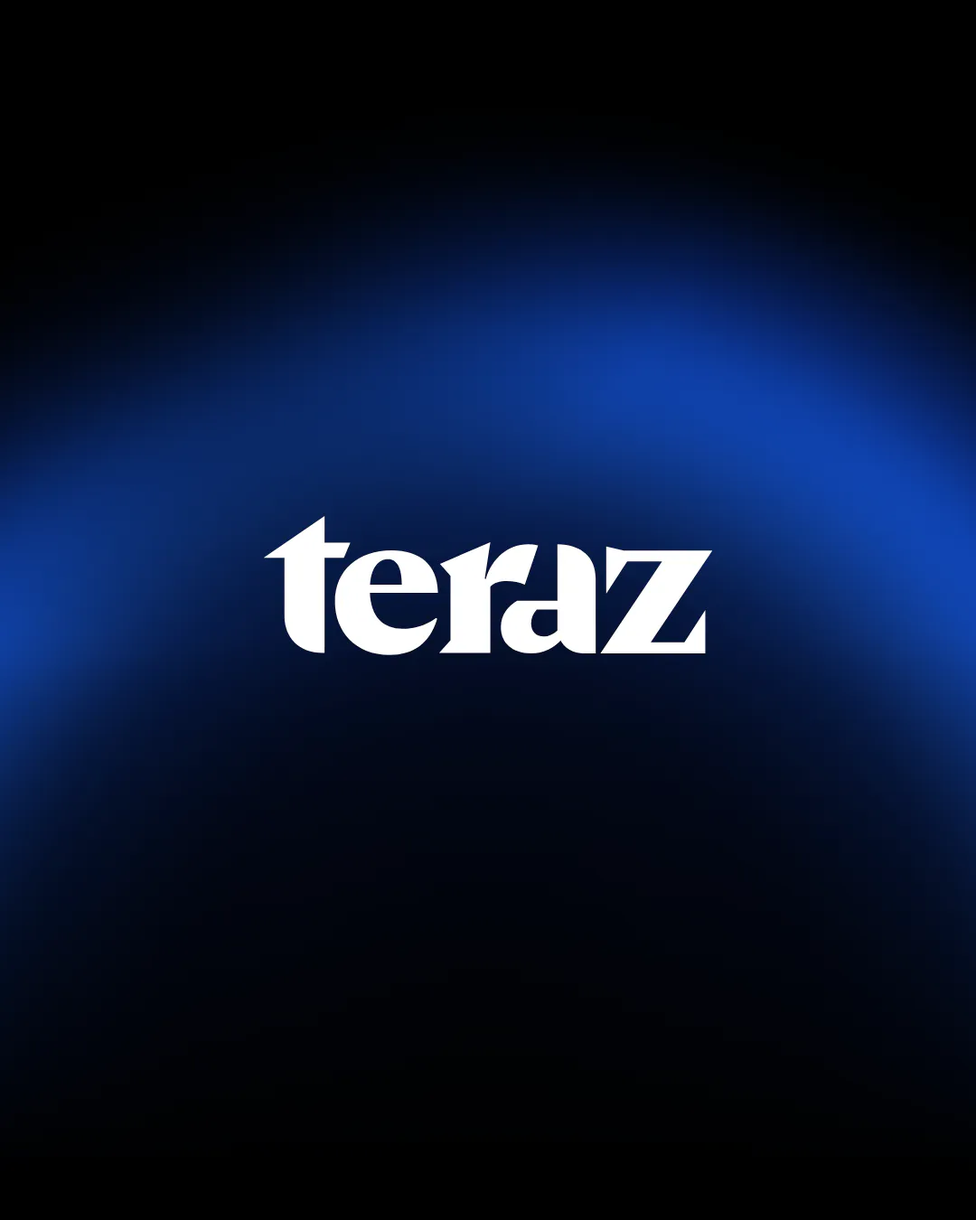
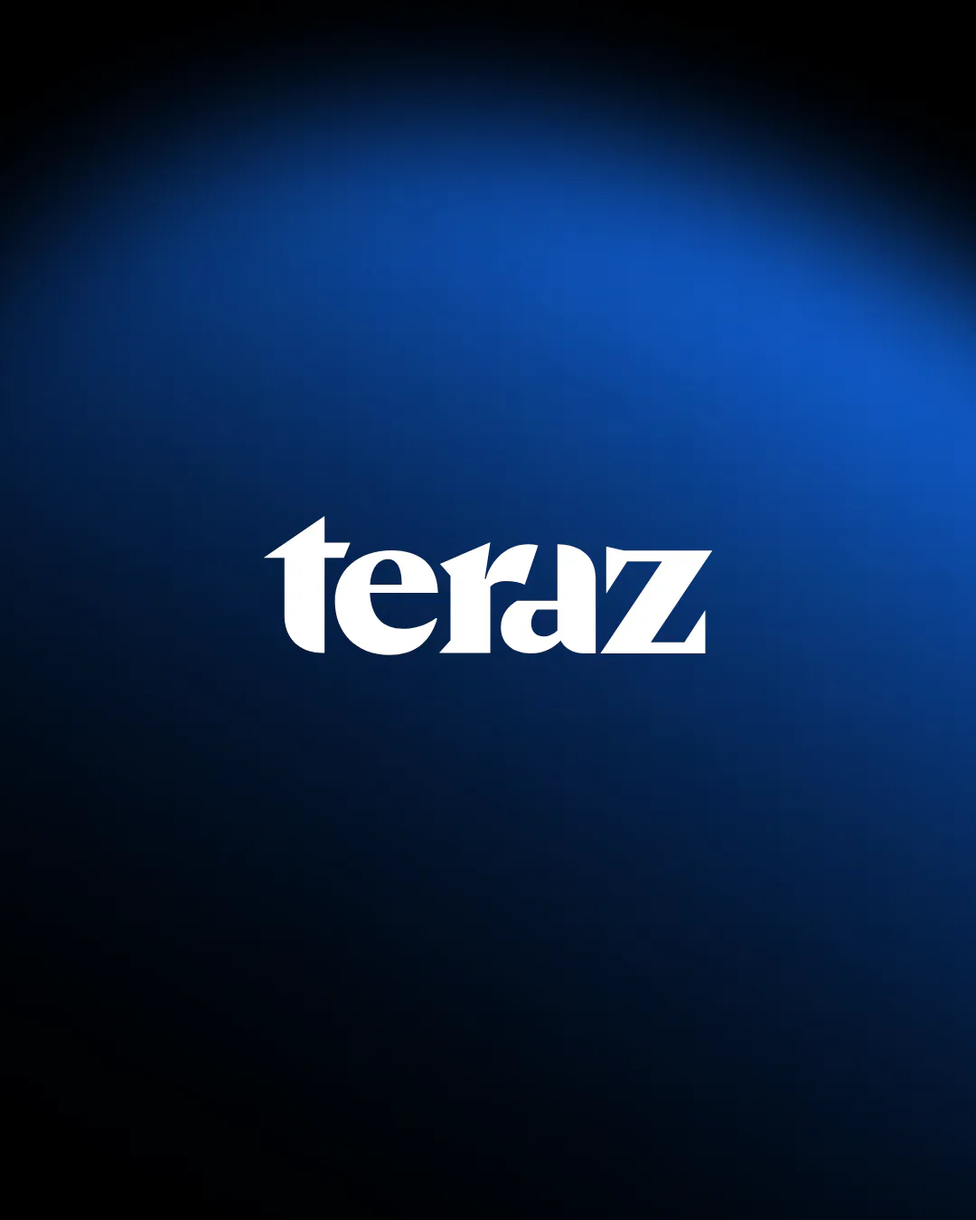
teraz: plansza z dużymi plamami różu i błękitu z projektu (płyną organicznie), bez „?” i „!”, mikroanimacja w każdej scenie (dziedziny, rezerwacje terminów, dwie społeczności i trzecia w planach, rozmowa), nowa okładka z niebieską plamą (sfera - animowana, PDF - statyczna)

diff --git a/styles.css b/styles.css
@@ -910,7 +910,7 @@ html:not(.js) .reel * { animation-iteration-count: 3 !important; animation-fill-
 .reel--4x5 {
   --pad: 7.5cqw; --lw: 52cqw; --ly: 40cqh;    /* plakat: środek znaku na 40% wysokości (optycznie wyżej) */
   --claim-fs: max(13px, 4.8cqw); --claim-gap: calc(var(--lw) * .16); --leg-fs: max(12px, 2.9cqw);
-  --f-size: 100cqw; --fm-size: 110cqw; --fl-x: 28cqw; --fl-y: 34cqh; --fe-x: 72cqw; --fe-y: 74cqh;
+  --fm-size: 110cqw;
   --pill-fs: max(12px, 3.2cqw); --head-fs: max(15px, 7.4cqw); --sub-fs: max(12px, 3.6cqw); --sgap: 2.6cqw;
   --call-top: 10cqh; --call-bot: 10cqh; --cgap: 3.6cqw;
   --ts: 40cqw; --tgap: 4cqw; --ring: max(2px, .55cqw);
@@ -927,33 +927,30 @@ html:not(.js) .reel * { animation-iteration-count: 3 !important; animation-fill-
   pointer-events: none;
 }
 
-/* Pola kolorów ról: statyczne gradienty bez filtra. Kolor = krycie na zegarze 15 s, ruch = wolny dryf 17–31 s */
+/* Pola kolorów ról: duże rozmyte plamy z Figmy (assets/teraz/field-*.webp - cała plama z rozmyciem, ustawiona jak
+   w projekcie 9:16 przyciętym do 4:5; 1 jedn. Figmy = 100/1080 cqw). Kolor = krycie na zegarze 15 s, ruch = organiczny
+   dryf, obrót i „oddech” w nierównych okresach (19-31 s) - plamy cały czas zmieniają kształt i miejsce. */
 .reel__field {
   position: absolute;
-  width: var(--f-size);
-  height: var(--f-size);
-  left: calc(var(--x) - var(--f-size) / 2);
-  top: calc(var(--y) - var(--f-size) / 2);
   pointer-events: none;
+  background: center / 100% 100% no-repeat;
 }
 .reel__field--l {
-  --x: var(--fl-x); --y: var(--fl-y);
-  opacity: .35;
-  background:
-    radial-gradient(46% 38% at 47% 53%, rgb(252 138 211 / .38), rgb(252 138 211 / .14) 55%, transparent 100%),
-    radial-gradient(26% 30% at 66% 34%, rgb(252 138 211 / .16), transparent 100%);
-  animation: reel-op-l var(--t-reel, 15s) ease-in-out infinite, reel-drift-a 23s ease-in-out infinite alternate, reel-swell 17s ease-in-out infinite alternate;
+  left: -75.7cqw; top: -113.4cqw; width: 225.5cqw; height: 258.1cqw;
+  background-image: url("assets/teraz/field-pink.webp");
+  transform-origin: 62% 58%;
+  opacity: .5;
+  animation: reel-op-l var(--t-reel, 15s) ease-in-out infinite, reel-blob-a 23s ease-in-out infinite alternate, reel-blob-c 31s ease-in-out infinite alternate;
 }
 .reel__field--e {
-  --x: var(--fe-x); --y: var(--fe-y);
-  opacity: .35;
-  background:
-    radial-gradient(46% 38% at 53% 47%, rgb(20 110 244 / .55), rgb(20 110 244 / .2) 55%, transparent 100%),
-    radial-gradient(26% 30% at 34% 66%, rgb(29 62 147 / .5), transparent 100%);
-  animation: reel-op-e var(--t-reel, 15s) ease-in-out infinite, reel-drift-b 29s ease-in-out infinite alternate, reel-swell 19s ease-in-out infinite alternate;
+  left: -96cqw; top: -67.4cqw; width: 237.7cqw; height: 212cqw;
+  background-image: url("assets/teraz/field-blue.webp");
+  transform-origin: 45% 60%;
+  opacity: .5;
+  animation: reel-op-e var(--t-reel, 15s) ease-in-out infinite, reel-blob-b 29s ease-in-out infinite alternate, reel-blob-c 19s ease-in-out infinite alternate-reverse;
 }
 .reel__field--m {
-  --f-size: var(--fm-size); --x: 50cqw; --y: 50cqh;
+  left: calc(50cqw - var(--fm-size) / 2); top: calc(50cqh - var(--fm-size) / 2); width: var(--fm-size); height: var(--fm-size);
   opacity: 0;
   background:
     radial-gradient(34% 30% at 38% 50%, rgb(252 138 211 / .30), transparent 100%),
@@ -961,11 +958,14 @@ html:not(.js) .reel * { animation-iteration-count: 3 !important; animation-fill-
   animation: reel-op-m var(--t-reel, 15s) ease-in-out infinite, reel-drift-a 31s ease-in-out infinite alternate;
 }
 @keyframes reel-drift-a { from { translate: -4cqw 3cqh; rotate: -10deg; } to { translate: 5cqw -4cqh; rotate: 14deg; } }
-@keyframes reel-drift-b { from { translate: 4cqw -3cqh; rotate: 12deg; } to { translate: -5cqw 4cqh; rotate: -12deg; } }
 @keyframes reel-swell   { from { scale: .92; } to { scale: 1.08; } }
-/* słuchacz (róż) → ekspert (błękit) → społeczność (oba) → rozmowa (środek) → plakat */
-@keyframes reel-op-l { 0%, 16% { opacity: .35; } 21.333%, 38.667% { opacity: 1; } 44%, 60% { opacity: .4; } 65.333%, 77.333% { opacity: .75; } 82.667%, 94.667% { opacity: .2; } 100% { opacity: .35; } }
-@keyframes reel-op-e { 0%, 16% { opacity: .35; } 21.333%, 38.667% { opacity: .25; } 44%, 60% { opacity: 1; } 65.333%, 77.333% { opacity: .75; } 82.667%, 94.667% { opacity: .2; } 100% { opacity: .35; } }
+/* plamy: dryf + obrót + niejednakowa skala (kształt „oddycha”) */
+@keyframes reel-blob-a { 0% { translate: 6cqw -4cqw; rotate: -7deg; } 50% { translate: -5cqw 6cqw; rotate: 5deg; } 100% { translate: 3cqw 9cqw; rotate: 11deg; } }
+@keyframes reel-blob-b { 0% { translate: -6cqw 5cqw; rotate: 8deg; } 50% { translate: 7cqw -3cqw; rotate: -4deg; } 100% { translate: -2cqw -8cqw; rotate: -10deg; } }
+@keyframes reel-blob-c { 0% { scale: .94 1.06; } 50% { scale: 1.07 .95; } 100% { scale: 1 1.1; } }
+/* plakat (oba) → słuchacz (róż) → ekspert (błękit) → dwie społeczności (oba) → rozmowa (oba słabiej) → plakat */
+@keyframes reel-op-l { 0%, 15% { opacity: .5; } 21.333%, 38.667% { opacity: 1; } 44%, 60% { opacity: .22; } 65.333%, 77.333% { opacity: .85; } 82.667%, 94.667% { opacity: .45; } 100% { opacity: .5; } }
+@keyframes reel-op-e { 0%, 15% { opacity: .5; } 21.333%, 38.667% { opacity: .2; } 44%, 60% { opacity: 1; } 65.333%, 77.333% { opacity: .85; } 82.667%, 94.667% { opacity: .45; } 100% { opacity: .5; } }
 @keyframes reel-op-m { 0%, 77.333% { opacity: 0; } 82.667%, 94.667% { opacity: 1; } 98.667%, 100% { opacity: 0; } }
 
 /* Znak w rozmiarze plakatu (element LCP). --lr = wysokość / szerokość / 2 (render.js; dla 575 × 178 = .15478) */
@@ -1019,6 +1019,10 @@ html:not(.js) .reel * { animation-iteration-count: 3 !important; animation-fill-
 .reel__pill, .reel__chip, .reel__legend span, .reel__cap { font-weight: 600; }   /* teraz: text-sm font-semibold */
 .reel__legend span::before { content: ""; width: .62em; height: .62em; border-radius: 50%; background: var(--tz-pink); }
 .reel__legend span + span::before { background: var(--tz-blue); }
+.reel__legend span::before { animation: reel-legend-dot var(--t-reel, 15s) ease-in-out infinite; }
+.reel__legend span + span::before { animation-name: reel-legend-dot-b; }
+@keyframes reel-legend-dot   { 0%, 100% { scale: 1; } 3% { scale: 1.6; } 6%, 9% { scale: 1; } 12% { scale: 1.6; } 15% { scale: 1; } }
+@keyframes reel-legend-dot-b { 0%, 100% { scale: 1; } 4.5% { scale: 1; } 7.5% { scale: 1.6; } 10.5% { scale: 1; } 13.5% { scale: 1.6; } 15% { scale: 1; } }
 @keyframes reel-claim  { 0%, 14.667% { opacity: 1; translate: 0 0; } 16.667% { opacity: 0; translate: 0 0; } 16.67%, 96.333% { opacity: 0; translate: 0 .4em; animation-timing-function: cubic-bezier(.2, .7, .2, 1); } 100% { opacity: 1; translate: 0 0; } }
 @keyframes reel-legend { 0%, 15% { opacity: 1; translate: 0 0; } 17% { opacity: 0; translate: 0 0; } 17.003%, 97% { opacity: 0; translate: 0 .4em; animation-timing-function: cubic-bezier(.2, .7, .2, 1); } 100% { opacity: 1; translate: 0 0; } }
 /* Sceny: szukasz eksperta → albo nim zostań → społeczność. Ta sama kolumna przy lewej krawędzi, wyśrodkowana w pionie. Wejście 500 ms od dołu (wiersz, nagłówek, opis co 150 ms), wyjście 300 ms razem. */
@@ -1043,6 +1047,7 @@ html:not(.js) .reel * { animation-iteration-count: 3 !important; animation-fill-
 .reel__scene--e > .reel__head { animation-name: reel-e-head; }
 .reel__scene--e > .reel__sub  { animation-name: reel-e-sub; }
 .reel__scene--c > .reel__row  { animation-name: reel-c-row; }
+.reel__scene--l > .reel__chips, .reel__scene--e > .reel__chips { opacity: 1; animation: none; }
 .reel__scene--c > .reel__head { animation-name: reel-c-head; }
 .reel__scene--c > .reel__sub  { animation-name: reel-c-sub; }
 .reel__pill {
@@ -1058,10 +1063,35 @@ html:not(.js) .reel * { animation-iteration-count: 3 !important; animation-fill-
 .reel .reel__pill svg,
 .reel .reel__cap svg { width: 1.2em; height: 1.2em; fill: currentColor; flex: none; }
 .reel__pill--l { background: var(--tz-pink); color: var(--tz-ink-pink); }   /* 8.6:1 */
+/* Dziedziny ekspertów i terminy rozmów: pigułki z obwódką roli, wpadają jedna po drugiej; termin „rezerwuje się”
+   (kropka wypełnia się błękitem) */
+.reel__chips { display: flex; flex-wrap: wrap; gap: 1.6cqw; margin-top: 1.2cqw !important; }
+.reel__tag, .reel__slot {
+  display: inline-flex; align-items: center; gap: .45em; padding: .34em .9em; border-radius: 999px;
+  font-size: var(--chip-fs); font-weight: 600; line-height: 1.15; white-space: nowrap;
+  background: rgb(255 255 255 / .08); box-shadow: inset 0 0 0 1.5px rgb(252 138 211 / .7);
+  opacity: 0; animation: var(--t-reel, 15s) linear infinite;
+}
+.reel__slot { box-shadow: inset 0 0 0 1.5px rgb(20 110 244 / .85); padding-left: .65em; }
+.reel__slot::before { content: ""; width: .62em; height: .62em; border-radius: 50%; box-shadow: inset 0 0 0 1.5px var(--tz-blue); background: transparent; animation: var(--t-reel, 15s) linear infinite; }
+.reel__tag:nth-child(1) { animation-name: reel-tag-1; } .reel__tag:nth-child(2) { animation-name: reel-tag-2; }
+.reel__tag:nth-child(3) { animation-name: reel-tag-3; } .reel__tag:nth-child(4) { animation-name: reel-tag-4; }
+.reel__slot:nth-child(1) { animation-name: reel-slot-1; } .reel__slot:nth-child(2) { animation-name: reel-slot-2; } .reel__slot:nth-child(3) { animation-name: reel-slot-3; }
+.reel__slot:nth-child(1)::before { animation-name: reel-book-1; } .reel__slot:nth-child(2)::before { animation-name: reel-book-2; } .reel__slot:nth-child(3)::before { animation-name: reel-book-3; }
+@keyframes reel-tag-1 { 0%, 24% { opacity: 0; translate: 0 .5em; animation-timing-function: cubic-bezier(.2, .7, .2, 1); } 26.5%, 38.667% { opacity: 1; translate: 0 0; } 40.667% { opacity: 0; translate: 0 -.3em; } 40.67%, 100% { opacity: 0; translate: 0 .5em; } }
+@keyframes reel-tag-2 { 0%, 25.6% { opacity: 0; translate: 0 .5em; animation-timing-function: cubic-bezier(.2, .7, .2, 1); } 28.1%, 38.667% { opacity: 1; translate: 0 0; } 40.667% { opacity: 0; translate: 0 -.3em; } 40.67%, 100% { opacity: 0; translate: 0 .5em; } }
+@keyframes reel-tag-3 { 0%, 27.2% { opacity: 0; translate: 0 .5em; animation-timing-function: cubic-bezier(.2, .7, .2, 1); } 29.7%, 38.667% { opacity: 1; translate: 0 0; } 40.667% { opacity: 0; translate: 0 -.3em; } 40.67%, 100% { opacity: 0; translate: 0 .5em; } }
+@keyframes reel-tag-4 { 0%, 28.8% { opacity: 0; translate: 0 .5em; animation-timing-function: cubic-bezier(.2, .7, .2, 1); } 31.3%, 38.667% { opacity: 1; translate: 0 0; } 40.667% { opacity: 0; translate: 0 -.3em; } 40.67%, 100% { opacity: 0; translate: 0 .5em; } }
+@keyframes reel-slot-1 { 0%, 46% { opacity: 0; translate: 0 .5em; animation-timing-function: cubic-bezier(.2, .7, .2, 1); } 48.5%, 60% { opacity: 1; translate: 0 0; } 62% { opacity: 0; translate: 0 -.3em; } 62.003%, 100% { opacity: 0; translate: 0 .5em; } }
+@keyframes reel-slot-2 { 0%, 47.6% { opacity: 0; translate: 0 .5em; animation-timing-function: cubic-bezier(.2, .7, .2, 1); } 50.1%, 60% { opacity: 1; translate: 0 0; } 62% { opacity: 0; translate: 0 -.3em; } 62.003%, 100% { opacity: 0; translate: 0 .5em; } }
+@keyframes reel-slot-3 { 0%, 49.2% { opacity: 0; translate: 0 .5em; animation-timing-function: cubic-bezier(.2, .7, .2, 1); } 51.7%, 60% { opacity: 1; translate: 0 0; } 62% { opacity: 0; translate: 0 -.3em; } 62.003%, 100% { opacity: 0; translate: 0 .5em; } }
+@keyframes reel-book-1 { 0%, 51% { background-color: transparent; scale: 1; } 52.5% { background-color: var(--tz-blue); scale: 1.35; } 54%, 60% { background-color: var(--tz-blue); scale: 1; } 62%, 100% { background-color: transparent; scale: 1; } }
+@keyframes reel-book-2 { 0%, 53.5% { background-color: transparent; scale: 1; } 55% { background-color: var(--tz-blue); scale: 1.35; } 56.5%, 60% { background-color: var(--tz-blue); scale: 1; } 62%, 100% { background-color: transparent; scale: 1; } }
+@keyframes reel-book-3 { 0%, 56% { background-color: transparent; scale: 1; } 57.5% { background-color: var(--tz-blue); scale: 1.35; } 59%, 60% { background-color: var(--tz-blue); scale: 1; } 62%, 100% { background-color: transparent; scale: 1; } }
 .reel__pill--e { background: var(--tz-blue); color: #fff; }               /* 4.61:1 — pogrubione, min. 12 px, pełne tło */
-/* społeczność: kropki słuchaczy (róż) i ekspertów (błękit); dwie zmieniają rolę - można być jednym i drugim.
-   Kółka falują góra-dół naprzemiennie (parzyste w przeciwfazie, --bob ujemne), z nierówną amplitudą fal
-   i trochę inną u każdego kółka (--k) - ruch organiczny. Pętla 15 s bez opóźnień: 0% = 100% (zegar planszy). */
+/* Dwie społeczności: kółka słuchaczy (róż) i ekspertów (błękit) falują góra-dół naprzemiennie (parzyste w przeciwfazie,
+   z nierówną amplitudą); między nimi trzecia - planowana: dwa kółka przerywaną linią w barwach obu grup, kołyszą się
+   i pulsują. Pętla 15 s bez opóźnień: 0% = 100% (zegar planszy). */
 .reel__crowd { gap: 1.8cqw; }
 .reel__dot {
   position: relative; width: 6.4cqw; height: 6.4cqw; border-radius: 50%; background: rgb(255 255 255 / .1); box-shadow: inset 0 0 0 var(--ring) var(--tz-pink); font-style: normal;
@@ -1069,6 +1099,11 @@ html:not(.js) .reel * { animation-iteration-count: 3 !important; animation-fill-
   animation: reel-bob var(--t-reel, 15s) linear infinite;
 }
 .reel__dot:nth-child(even) { --bob: calc(-.85cqw - var(--k) * .06cqw); }
+.reel__dot--e { box-shadow: inset 0 0 0 var(--ring) var(--tz-blue); }
+.reel__dot--n { background: none; box-shadow: none; border: var(--ring) dashed rgb(255 255 255 / .75); animation: reel-plan var(--t-reel, 15s) ease-in-out infinite; }
+.reel__dot--n + .reel__dot--n { animation-name: reel-plan-b; }
+@keyframes reel-plan   { 0%, 64% { opacity: .35; rotate: 0deg; scale: .9; } 69% { opacity: 1; rotate: 30deg; scale: 1; } 72%, 74% { opacity: .55; rotate: 45deg; scale: .94; } 77% { opacity: 1; rotate: 60deg; scale: 1.04; } 82%, 100% { opacity: .35; rotate: 0deg; scale: .9; } }
+@keyframes reel-plan-b { 0%, 65.5% { opacity: .35; rotate: 0deg; scale: .9; } 70.5% { opacity: 1; rotate: -30deg; scale: 1.04; } 73.5%, 75.5% { opacity: .55; rotate: -45deg; scale: .94; } 78.5% { opacity: 1; rotate: -60deg; scale: 1; } 82%, 100% { opacity: .35; rotate: 0deg; scale: .9; } }
 @keyframes reel-bob {
   0%, 100% { translate: 0 0; animation-timing-function: cubic-bezier(.33, 0, .67, 1); }
   4.167%  { translate: 0 calc(var(--bob) * -.9);  animation-timing-function: cubic-bezier(.45, 0, .55, 1); }
@@ -1084,9 +1119,6 @@ html:not(.js) .reel * { animation-iteration-count: 3 !important; animation-fill-
   87.5%   { translate: 0 calc(var(--bob) * -.95); animation-timing-function: cubic-bezier(.45, 0, .55, 1); }
   95.833% { translate: 0 calc(var(--bob) * .7);   animation-timing-function: cubic-bezier(.33, 0, .67, 1); }
 }
-.reel__dot--e { box-shadow: inset 0 0 0 var(--ring) var(--tz-blue); }
-.reel__dot::after { content: ""; position: absolute; inset: 0; border-radius: 50%; box-shadow: inset 0 0 0 var(--ring) var(--tz-blue); opacity: 0; }
-.reel__dot:nth-child(4)::after, .reel__dot:nth-child(8)::after { animation: reel-c-switch var(--t-reel, 15s) linear infinite; }
 @keyframes reel-l-row { 0%, 18.667% { opacity: 0; translate: 0 .5em; animation-timing-function: cubic-bezier(.2, .7, .2, 1); } 22%, 38.667% { opacity: 1; translate: 0 0; } 40.667% { opacity: 0; translate: 0 -.3em; } 40.67%, 100% { opacity: 0; translate: 0 .5em; } }
 @keyframes reel-l-head { 0%, 19.667% { opacity: 0; translate: 0 .5em; animation-timing-function: cubic-bezier(.2, .7, .2, 1); } 23%, 38.667% { opacity: 1; translate: 0 0; } 40.667% { opacity: 0; translate: 0 -.3em; } 40.67%, 100% { opacity: 0; translate: 0 .5em; } }
 @keyframes reel-l-sub { 0%, 20.667% { opacity: 0; translate: 0 .5em; animation-timing-function: cubic-bezier(.2, .7, .2, 1); } 24%, 38.667% { opacity: 1; translate: 0 0; } 40.667% { opacity: 0; translate: 0 -.3em; } 40.67%, 100% { opacity: 0; translate: 0 .5em; } }
@@ -1096,15 +1128,6 @@ html:not(.js) .reel * { animation-iteration-count: 3 !important; animation-fill-
 @keyframes reel-c-row { 0%, 62% { opacity: 0; translate: 0 .5em; animation-timing-function: cubic-bezier(.2, .7, .2, 1); } 65.333%, 77.333% { opacity: 1; translate: 0 0; } 79.333% { opacity: 0; translate: 0 -.3em; } 79.337%, 100% { opacity: 0; translate: 0 .5em; } }
 @keyframes reel-c-head { 0%, 63% { opacity: 0; translate: 0 .5em; animation-timing-function: cubic-bezier(.2, .7, .2, 1); } 66.333%, 77.333% { opacity: 1; translate: 0 0; } 79.333% { opacity: 0; translate: 0 -.3em; } 79.337%, 100% { opacity: 0; translate: 0 .5em; } }
 @keyframes reel-c-sub { 0%, 64% { opacity: 0; translate: 0 .5em; animation-timing-function: cubic-bezier(.2, .7, .2, 1); } 67.333%, 77.333% { opacity: 1; translate: 0 0; } 79.333% { opacity: 0; translate: 0 -.3em; } 79.337%, 100% { opacity: 0; translate: 0 .5em; } }
-@keyframes reel-c-switch { 0%, 67.333% { opacity: 0; } 70.667%, 77.333% { opacity: 1; } 79.333%, 100% { opacity: 0; } }
-
-/* Glify: „?” = słuchacz pyta, „!” = ekspert odpowiada. Białe, duże, przycięte z prawej, bez obrotu */
-.reel .reel__glyph { position: absolute; width: auto; max-width: none; opacity: 0; }   /* <span> z <svg> w środku */
-.reel .reel__glyph svg { display: block; width: 100%; height: 100%; max-width: none; fill: #fff; }
-.reel .reel__glyph--q { height: 38cqh; aspect-ratio: 158.7 / 233.4; right: -13cqw; top: 14cqh; animation: reel-gq var(--t-reel, 15s) linear infinite; }
-.reel .reel__glyph--x { height: 34cqh; aspect-ratio: 71.4 / 230.4; right: 6cqw; bottom: -6cqh; animation: reel-gx var(--t-reel, 15s) linear infinite; }
-@keyframes reel-gq { 0%, 18% { opacity: 0; translate: 30cqw 0; animation-timing-function: cubic-bezier(.2, .7, .2, 1); } 23.333%, 38.667% { opacity: 1; translate: 0 0; animation-timing-function: cubic-bezier(.4, 0, 1, 1); } 41.333%, 100% { opacity: 0; translate: 30cqw 0; } }
-@keyframes reel-gx { 0%, 41.333% { opacity: 0; translate: 0 40cqh; animation-timing-function: cubic-bezier(.2, .7, .2, 1); } 46.667%, 60% { opacity: 1; translate: 0 0; animation-timing-function: cubic-bezier(.4, 0, 1, 1); } 62.667%, 100% { opacity: 0; translate: 0 40cqh; } }
 
 /* Rozmowa 1:1: kolumna wyśrodkowana między nagłówkiem a dołem */
 .reel__call {
@@ -1216,7 +1239,7 @@ html:not(.js) .reel * { animation-iteration-count: 3 !important; animation-fill-
    Karta sfery (lite): logo i dwa kafelki z obwódkami */
 @media (prefers-reduced-motion: reduce) {
   .reel__field--l, .reel__field--e { opacity: .35; }
-  .reel:not(.reel--lite) .reel__call, .reel__glyph, .reel__scene { display: none; }
+  .reel:not(.reel--lite) .reel__call, .reel__scene { display: none; }
   .reel--lite .reel__ring { opacity: 1; }
   .reel--lite .reel__ring::after { display: none; }
 }

diff --git a/index.html b/index.html
@@ -342,11 +342,9 @@
       <div class="pj">
         <div class="pj__media">
         <figure class="sheet__video sheet__video--4x5 media" style="--ratio:1080 / 1350; --ar:0.8000">
-          <div class="reel reel--4x5 brand" style="--brand-bg:#000000;--a1:#1D3E93F2;--a2:#146EF480;--a3:#0A1A3FF2;--a4:#FC8AD31F;--brand-speed:26s;--t-reel:15000ms;--lr:0.15478" role="img" aria-label="teraz - baza ekspertów z branży kreatywnej. Szukasz eksperta? Znajdziesz go tu, z 5+ lat praktyki. Albo sam nim zostań: dzielisz się wiedzą i zarabiasz na rozmowach. Jedna społeczność słuchaczy i ekspertów - możesz być jednym i drugim. Rozmowa 1:1 z ekspertem, wideo 30 albo 60 minut. Porozmawiajmy tu i teraz.">
+          <div class="reel reel--4x5 brand" style="--brand-bg:#000000;--a1:#1D3E93F2;--a2:#146EF480;--a3:#0A1A3FF2;--a4:#FC8AD31F;--brand-speed:26s;--t-reel:15000ms;--lr:0.15478" role="img" aria-label="teraz - baza ekspertów z branży kreatywnej. Szukasz eksperta? Znajdziesz go tu, z 5+ lat praktyki. Albo sam nim zostań: dzielisz się wiedzą i zarabiasz na rozmowach. Dwie społeczności - słuchacze i eksperci - a wkrótce trzecia, łącząca obie. Rozmowa 1:1 z ekspertem, wideo 30 albo 60 minut. Porozmawiajmy tu i teraz.">
   <span class="reel__field reel__field--l"></span><span class="reel__field reel__field--e"></span><span class="reel__field reel__field--m"></span>
   <div class="reel__stage">
-    <span class="reel__glyph reel__glyph--q"><svg viewBox="0 0 158.7 233.4" aria-hidden="true" focusable="false"><path d="M66.3 152.1C49.2 105.6 94.5 85.2 94.5 47.7C94.5 36.6 89.7 18.9 68.4 14.4L41.1 55.8L0 34.5C17.7 11.1 43.5 0 83.1 0C126.3 0 158.7 15.9 158.7 49.2C158.7 100.8 80.7 106.2 80.7 152.1H66.3ZM75.3 233.4C59.1 233.4 45.3 219.3 45.3 203.1C45.3 186.9 59.1 173.1 75.3 173.1C91.5 173.1 105.6 186.9 105.6 203.1C105.6 219.3 91.5 233.4 75.3 233.4Z"/></svg></span>
-    <span class="reel__glyph reel__glyph--x"><svg viewBox="0 0 71.4 230.4" aria-hidden="true" focusable="false"><path d="M71.4 0 42.9 149.1H28.5L0 0H71.4ZM36 230.4C19.8 230.4 6 216.3 6 200.1C6 183.9 19.8 170.1 36 170.1C52.2 170.1 66.3 183.9 66.3 200.1C66.3 216.3 52.2 230.4 36 230.4Z"/></svg></span>
     <img class="reel__logo" src="assets/teraz/logo-sync.svg" width="575" height="178" alt="" loading="lazy" decoding="async">
     <p class="reel__claim">porozmawiajmy <span class="reel__key">tu i teraz</span></p>
     <p class="reel__legend"><span>słuchacze</span><span>eksperci</span></p>
@@ -354,16 +352,18 @@
       <p class="reel__row"><span class="reel__pill reel__pill--l"><svg viewBox="0 0 24 24" aria-hidden="true" focusable="false"><path d="M2.5 12A9.5 9.5 0 0 1 21.5 12V20A1.5 1.5 0 0 1 20 21.5H17A1.5 1.5 0 0 1 15.5 20V14.5A1.5 1.5 0 0 1 17 13H18.5V12A6.5 6.5 0 0 0 5.5 12V13H7A1.5 1.5 0 0 1 8.5 14.5V20A1.5 1.5 0 0 1 7 21.5H4A1.5 1.5 0 0 1 2.5 20Z"/></svg>słuchacz</span></p>
       <p class="reel__head">Szukasz eksperta?</p>
       <p class="reel__sub">Eksperci z branży kreatywnej z 5+ lat praktyki.</p>
+      <p class="reel__chips"><span class="reel__tag">branding</span><span class="reel__tag">UX/UI</span><span class="reel__tag">motion</span><span class="reel__tag">3D</span></p>
     </div>
     <div class="reel__scene reel__scene--e">
       <p class="reel__row"><span class="reel__pill reel__pill--e"><svg viewBox="0 0 24 24" aria-hidden="true" focusable="false"><path fill-rule="evenodd" d="M3 3.5A1 1 0 0 1 4 2.5H20A1 1 0 0 1 21 3.5V14.5H13.5L18 21.5H14.75L12 17.1 9.25 21.5H6L10.5 14.5H3ZM7.13 11.75L9.52 9.36 12.52 12.11 18.63 6 16.37 6 12.48 9.89 9.48 7.14 4.87 11.75Z"/></svg>ekspert</span></p>
       <p class="reel__head">Albo sam nim zostań.</p>
       <p class="reel__sub">Dzielisz się wiedzą i zarabiasz na rozmowach.</p>
+      <p class="reel__chips"><span class="reel__slot">pn 10:00</span><span class="reel__slot">śr 14:30</span><span class="reel__slot">pt 18:00</span></p>
     </div>
     <div class="reel__scene reel__scene--c">
-      <p class="reel__row reel__crowd"><i class="reel__dot reel__dot--l" style="--k:0"></i><i class="reel__dot reel__dot--e" style="--k:1"></i><i class="reel__dot reel__dot--l" style="--k:2"></i><i class="reel__dot reel__dot--l" style="--k:3"></i><i class="reel__dot reel__dot--e" style="--k:4"></i><i class="reel__dot reel__dot--l" style="--k:5"></i><i class="reel__dot reel__dot--e" style="--k:6"></i><i class="reel__dot reel__dot--l" style="--k:7"></i></p>
-      <p class="reel__head">Jedna społeczność.</p>
-      <p class="reel__sub">Słuchacze i eksperci - możesz być jednym i drugim.</p>
+      <p class="reel__row reel__crowd"><i class="reel__dot reel__dot--l" style="--k:0"></i><i class="reel__dot reel__dot--l" style="--k:1"></i><i class="reel__dot reel__dot--l" style="--k:2"></i><i class="reel__dot reel__dot--n" style="--k:3"></i><i class="reel__dot reel__dot--n" style="--k:4"></i><i class="reel__dot reel__dot--e" style="--k:5"></i><i class="reel__dot reel__dot--e" style="--k:6"></i><i class="reel__dot reel__dot--e" style="--k:7"></i></p>
+      <p class="reel__head">Dwie społeczności.</p>
+      <p class="reel__sub">Słuchacze i eksperci - a wkrótce trzecia, łącząca obie.</p>
     </div>
     <div class="reel__call">
       <div class="reel__tiles">

diff --git a/en/index.html b/en/index.html
@@ -342,11 +342,9 @@
       <div class="pj">
         <div class="pj__media">
         <figure class="sheet__video sheet__video--4x5 media" style="--ratio:1080 / 1350; --ar:0.8000">
-          <div class="reel reel--4x5 brand" style="--brand-bg:#000000;--a1:#1D3E93F2;--a2:#146EF480;--a3:#0A1A3FF2;--a4:#FC8AD31F;--brand-speed:26s;--t-reel:15000ms;--lr:0.15478" role="img" aria-label="teraz - a base of creative industry experts. Looking for an expert? Find one here, with 5+ years of practice. Or become one yourself: share what you know and earn from your calls. One community of listeners and experts - you can be both. A 1:1 call with an expert, video, 30 or 60 minutes. Let’s talk here and now.">
+          <div class="reel reel--4x5 brand" style="--brand-bg:#000000;--a1:#1D3E93F2;--a2:#146EF480;--a3:#0A1A3FF2;--a4:#FC8AD31F;--brand-speed:26s;--t-reel:15000ms;--lr:0.15478" role="img" aria-label="teraz - a base of creative industry experts. Looking for an expert? Find one here, with 5+ years of practice. Or become one yourself: share what you know and earn from your calls. Two communities - listeners and experts - and soon a third that joins them. A 1:1 call with an expert, video, 30 or 60 minutes. Let’s talk here and now.">
   <span class="reel__field reel__field--l"></span><span class="reel__field reel__field--e"></span><span class="reel__field reel__field--m"></span>
   <div class="reel__stage">
-    <span class="reel__glyph reel__glyph--q"><svg viewBox="0 0 158.7 233.4" aria-hidden="true" focusable="false"><path d="M66.3 152.1C49.2 105.6 94.5 85.2 94.5 47.7C94.5 36.6 89.7 18.9 68.4 14.4L41.1 55.8L0 34.5C17.7 11.1 43.5 0 83.1 0C126.3 0 158.7 15.9 158.7 49.2C158.7 100.8 80.7 106.2 80.7 152.1H66.3ZM75.3 233.4C59.1 233.4 45.3 219.3 45.3 203.1C45.3 186.9 59.1 173.1 75.3 173.1C91.5 173.1 105.6 186.9 105.6 203.1C105.6 219.3 91.5 233.4 75.3 233.4Z"/></svg></span>
-    <span class="reel__glyph reel__glyph--x"><svg viewBox="0 0 71.4 230.4" aria-hidden="true" focusable="false"><path d="M71.4 0 42.9 149.1H28.5L0 0H71.4ZM36 230.4C19.8 230.4 6 216.3 6 200.1C6 183.9 19.8 170.1 36 170.1C52.2 170.1 66.3 183.9 66.3 200.1C66.3 216.3 52.2 230.4 36 230.4Z"/></svg></span>
     <img class="reel__logo" src="../assets/teraz/logo-sync.svg" width="575" height="178" alt="" loading="lazy" decoding="async">
     <p class="reel__claim">let’s talk <span class="reel__key">here and now</span></p>
     <p class="reel__legend"><span>listeners</span><span>experts</span></p>
@@ -354,16 +352,18 @@
       <p class="reel__row"><span class="reel__pill reel__pill--l"><svg viewBox="0 0 24 24" aria-hidden="true" focusable="false"><path d="M2.5 12A9.5 9.5 0 0 1 21.5 12V20A1.5 1.5 0 0 1 20 21.5H17A1.5 1.5 0 0 1 15.5 20V14.5A1.5 1.5 0 0 1 17 13H18.5V12A6.5 6.5 0 0 0 5.5 12V13H7A1.5 1.5 0 0 1 8.5 14.5V20A1.5 1.5 0 0 1 7 21.5H4A1.5 1.5 0 0 1 2.5 20Z"/></svg>listener</span></p>
       <p class="reel__head">Looking for an expert?</p>
       <p class="reel__sub">Creative industry experts with 5+ years of practice.</p>
+      <p class="reel__chips"><span class="reel__tag">branding</span><span class="reel__tag">UX/UI</span><span class="reel__tag">motion</span><span class="reel__tag">3D</span></p>
     </div>
     <div class="reel__scene reel__scene--e">
       <p class="reel__row"><span class="reel__pill reel__pill--e"><svg viewBox="0 0 24 24" aria-hidden="true" focusable="false"><path fill-rule="evenodd" d="M3 3.5A1 1 0 0 1 4 2.5H20A1 1 0 0 1 21 3.5V14.5H13.5L18 21.5H14.75L12 17.1 9.25 21.5H6L10.5 14.5H3ZM7.13 11.75L9.52 9.36 12.52 12.11 18.63 6 16.37 6 12.48 9.89 9.48 7.14 4.87 11.75Z"/></svg>expert</span></p>
       <p class="reel__head">Or become one yourself.</p>
       <p class="reel__sub">Share what you know and earn from your calls.</p>
+      <p class="reel__chips"><span class="reel__slot">Mon 10:00</span><span class="reel__slot">Wed 14:30</span><span class="reel__slot">Fri 18:00</span></p>
     </div>
     <div class="reel__scene reel__scene--c">
-      <p class="reel__row reel__crowd"><i class="reel__dot reel__dot--l" style="--k:0"></i><i class="reel__dot reel__dot--e" style="--k:1"></i><i class="reel__dot reel__dot--l" style="--k:2"></i><i class="reel__dot reel__dot--l" style="--k:3"></i><i class="reel__dot reel__dot--e" style="--k:4"></i><i class="reel__dot reel__dot--l" style="--k:5"></i><i class="reel__dot reel__dot--e" style="--k:6"></i><i class="reel__dot reel__dot--l" style="--k:7"></i></p>
-      <p class="reel__head">One community.</p>
-      <p class="reel__sub">Listeners and experts - you can be both.</p>
+      <p class="reel__row reel__crowd"><i class="reel__dot reel__dot--l" style="--k:0"></i><i class="reel__dot reel__dot--l" style="--k:1"></i><i class="reel__dot reel__dot--l" style="--k:2"></i><i class="reel__dot reel__dot--n" style="--k:3"></i><i class="reel__dot reel__dot--n" style="--k:4"></i><i class="reel__dot reel__dot--e" style="--k:5"></i><i class="reel__dot reel__dot--e" style="--k:6"></i><i class="reel__dot reel__dot--e" style="--k:7"></i></p>
+      <p class="reel__head">Two communities.</p>
+      <p class="reel__sub">Listeners and experts - and soon a third that joins them.</p>
     </div>
     <div class="reel__call">
       <div class="reel__tiles">

diff --git a/render.js b/render.js
@@ -8,10 +8,8 @@ import { symbol } from './symbols.js';
 
 // Plansza animowana teraz (reel): jedna pętla. Trafia do --t-reel oraz do data-dwell / --t-auto wiersza indeksu.
 export const REEL_MS = 15000;
-// Ścieżki wpisane w HTML (bez dodatkowych plików): glify „?” i „!” z teraz, ikony ról, pauza / start.
+// Ścieżki wpisane w HTML (bez dodatkowych plików): ikony ról, pauza / start.
 export const RP = {
-  q: 'M66.3 152.1C49.2 105.6 94.5 85.2 94.5 47.7C94.5 36.6 89.7 18.9 68.4 14.4L41.1 55.8L0 34.5C17.7 11.1 43.5 0 83.1 0C126.3 0 158.7 15.9 158.7 49.2C158.7 100.8 80.7 106.2 80.7 152.1H66.3ZM75.3 233.4C59.1 233.4 45.3 219.3 45.3 203.1C45.3 186.9 59.1 173.1 75.3 173.1C91.5 173.1 105.6 186.9 105.6 203.1C105.6 219.3 91.5 233.4 75.3 233.4Z',
-  x: 'M71.4 0 42.9 149.1H28.5L0 0H71.4ZM36 230.4C19.8 230.4 6 216.3 6 200.1C6 183.9 19.8 170.1 36 170.1C52.2 170.1 66.3 183.9 66.3 200.1C66.3 216.3 52.2 230.4 36 230.4Z',
   headphones: 'M2.5 12A9.5 9.5 0 0 1 21.5 12V20A1.5 1.5 0 0 1 20 21.5H17A1.5 1.5 0 0 1 15.5 20V14.5A1.5 1.5 0 0 1 17 13H18.5V12A6.5 6.5 0 0 0 5.5 12V13H7A1.5 1.5 0 0 1 8.5 14.5V20A1.5 1.5 0 0 1 7 21.5H4A1.5 1.5 0 0 1 2.5 20Z',
   presentation: 'M3 3.5A1 1 0 0 1 4 2.5H20A1 1 0 0 1 21 3.5V14.5H13.5L18 21.5H14.75L12 17.1 9.25 21.5H6L10.5 14.5H3ZM7.13 11.75L9.52 9.36 12.52 12.11 18.63 6 16.37 6 12.48 9.89 9.48 7.14 4.87 11.75Z',
   video: 'M3.5 5.5H13.5A1.5 1.5 0 0 1 15 7V17A1.5 1.5 0 0 1 13.5 18.5H3.5A1.5 1.5 0 0 1 2 17V7A1.5 1.5 0 0 1 3.5 5.5ZM16.5 9.17L22 5.5V18.5L16.5 14.83Z',
@@ -103,15 +101,17 @@ function reel(p, tp, fmt, { eager = false, decorative = false, lite = false } = 
     </div>
   </div></div>`;
   }
-  // Pełna plansza 15 s (render: 4:5): plakat (logo tylko tu) → szukasz eksperta → albo nim zostań → społeczność → rozmowa 1:1 → plakat
+  // Pełna plansza 15 s (render: 4:5): plakat (logo tylko tu) → szukasz eksperta (dziedziny wpadają jedna po drugiej)
+  // → albo nim zostań (terminy rozmów się rezerwują) → dwie społeczności i trzecia w planach (kółka przerywaną linią
+  // między nimi) → rozmowa 1:1 (dwa okna, mówiący z obwódką) → plakat. Pod spodem duże pola różu i błękitu (plamy z Figmy).
   const pillL = `<span class="reel__pill reel__pill--l">${svgi(RP.headphones)}${esc(r.listener)}</span>`;
   const pillE = `<span class="reel__pill reel__pill--e">${svgi(RP.presentation, '', '0 0 24 24', true)}${esc(r.expert)}</span>`;
-  const crowd = ['l', 'e', 'l', 'l', 'e', 'l', 'e', 'l'].map((k, i) => `<i class="reel__dot reel__dot--${k}" style="--k:${i}"></i>`).join('');
+  const crowd = ['l', 'l', 'l', 'n', 'n', 'e', 'e', 'e'].map((k, i) => `<i class="reel__dot reel__dot--${k}" style="--k:${i}"></i>`).join('');
+  const tags = r.tags.map(x => `<span class="reel__tag">${esc(x)}</span>`).join('');
+  const slots = r.slots.map(x => `<span class="reel__slot">${esc(x)}</span>`).join('');
   return `<div class="reel reel--${fmt} brand" style="${brandStyle(p.brand)};--t-reel:${REEL_MS}ms;--lr:${lr}" ${a11y}>
   <span class="reel__field reel__field--l"></span><span class="reel__field reel__field--e"></span><span class="reel__field reel__field--m"></span>
   <div class="reel__stage">
-    <span class="reel__glyph reel__glyph--q">${svgi(RP.q, '', '0 0 158.7 233.4')}</span>
-    <span class="reel__glyph reel__glyph--x">${svgi(RP.x, '', '0 0 71.4 230.4')}</span>
     <img class="reel__logo" src="${esc(p.logo.src)}" width="${p.logo.w}" height="${p.logo.h}" alt="" ${img}>
     <p class="reel__claim">${esc(r.claimA)} <span class="reel__key">${esc(r.claimKey)}</span></p>
     <p class="reel__legend"><span>${esc(r.listeners)}</span><span>${esc(r.experts)}</span></p>
@@ -119,11 +119,13 @@ function reel(p, tp, fmt, { eager = false, decorative = false, lite = false } = 
       <p class="reel__row">${pillL}</p>
       <p class="reel__head">${esc(r.stepL)}</p>
       <p class="reel__sub">${esc(r.subL)}</p>
+      <p class="reel__chips">${tags}</p>
     </div>
     <div class="reel__scene reel__scene--e">
       <p class="reel__row">${pillE}</p>
       <p class="reel__head">${esc(r.stepE)}</p>
       <p class="reel__sub">${esc(r.subE)}</p>
+      <p class="reel__chips">${slots}</p>
     </div>
     <div class="reel__scene reel__scene--c">
       <p class="reel__row reel__crowd">${crowd}</p>

diff --git a/content.js b/content.js
@@ -281,13 +281,15 @@ export const pl = {
       // Plansza animowana (reel, 15 s): plakat → słuchacz → ekspert → społeczność → rozmowa 1:1 → plakat.
       // Te same klucze w pl i en; limity znaków sprawdza `npm run build`.
       reel: {
-        label: 'teraz - baza ekspertów z branży kreatywnej. Szukasz eksperta? Znajdziesz go tu, z 5+ lat praktyki. Albo sam nim zostań: dzielisz się wiedzą i zarabiasz na rozmowach. Jedna społeczność słuchaczy i ekspertów - możesz być jednym i drugim. Rozmowa 1:1 z ekspertem, wideo 30 albo 60 minut. Porozmawiajmy tu i teraz.',
+        label: 'teraz - baza ekspertów z branży kreatywnej. Szukasz eksperta? Znajdziesz go tu, z 5+ lat praktyki. Albo sam nim zostań: dzielisz się wiedzą i zarabiasz na rozmowach. Dwie społeczności - słuchacze i eksperci - a wkrótce trzecia, łącząca obie. Rozmowa 1:1 z ekspertem, wideo 30 albo 60 minut. Porozmawiajmy tu i teraz.',
         stepL: 'Szukasz eksperta?',
         subL: 'Eksperci z branży kreatywnej z 5+ lat praktyki.',
         stepE: 'Albo sam nim zostań.',
         subE: 'Dzielisz się wiedzą i zarabiasz na rozmowach.',
-        community: 'Jedna społeczność.',
-        communitySub: 'Słuchacze i eksperci - możesz być jednym i drugim.',
+        tags: ['branding', 'UX/UI', 'motion', '3D'],          // dziedziny ekspertów (scena „Szukasz eksperta?”)
+        slots: ['pn 10:00', 'śr 14:30', 'pt 18:00'],          // zarezerwowane rozmowy (scena „Albo sam nim zostań”)
+        community: 'Dwie społeczności.',
+        communitySub: 'Słuchacze i eksperci - a wkrótce trzecia, łącząca obie.',
         claimA: 'porozmawiajmy',
         claimKey: 'tu i teraz',          // z falką pod spodem
         listener: 'słuchacz',
@@ -574,13 +576,15 @@ export const en = {
       lead: 'Find an expert from your industry, here and now. The platform MVP: 1:1 video calls, Escrow payments and a community.',
       // Plansza animowana (reel, 15 s). Słuchacz po angielsku: „listener” (decyzja właściciela; teraz.eu używa „learner”).
       reel: {
-        label: 'teraz - a base of creative industry experts. Looking for an expert? Find one here, with 5+ years of practice. Or become one yourself: share what you know and earn from your calls. One community of listeners and experts - you can be both. A 1:1 call with an expert, video, 30 or 60 minutes. Let’s talk here and now.',
+        label: 'teraz - a base of creative industry experts. Looking for an expert? Find one here, with 5+ years of practice. Or become one yourself: share what you know and earn from your calls. Two communities - listeners and experts - and soon a third that joins them. A 1:1 call with an expert, video, 30 or 60 minutes. Let’s talk here and now.',
         stepL: 'Looking for an expert?',
         subL: 'Creative industry experts with 5+ years of practice.',
         stepE: 'Or become one yourself.',
         subE: 'Share what you know and earn from your calls.',
-        community: 'One community.',
-        communitySub: 'Listeners and experts - you can be both.',
+        tags: ['branding', 'UX/UI', 'motion', '3D'],
+        slots: ['Mon 10:00', 'Wed 14:30', 'Fri 18:00'],
+        community: 'Two communities.',
+        communitySub: 'Listeners and experts - and soon a third that joins them.',
         claimA: 'let’s talk',            // apostrof jak u teraz („Let’s talk”)
         claimKey: 'here and now',
         listener: 'listener',

diff --git a/live.css b/live.css
@@ -30,27 +30,18 @@
 .live--static, .live--static *, .live--static *::before, .live--static *::after { animation: none !important; }
 .live--static .og-grain { display: none; }   /* ziarno (6%) niewidoczne w planszy, a mocno ją powiększa */
 
-/* ---- teraz: łuna z hero teraz.eu - jasny niebieski łuk u góry dużej elipsy, w środku granat, dół czarny.
-   Trzy warstwy płyną w różnym tempie (14-23 s), więc kształt łuny ciągle się zmienia. ---- */
+/* ---- teraz: czerń z dużą niebieską plamą (Figma: obszar filtra x -358, y -16, 2050 × 1682 w kadrze 1081 × 1350
+   → w cqw: 1 jedn. = 100/1081) i logo na środku. Plama dryfuje, obraca się i zmienia proporcje w nierównych okresach. ---- */
 .live--teraz { background: #000; }
-.tz-light, .tz-core, .tz-shade { position: absolute; border-radius: 50%; pointer-events: none; }
-.tz-light {
-  left: -38%; top: 12%; width: 176%; height: 118%;
-  background: radial-gradient(closest-side, #3b8cff 0%, #2275ff 48%, #1356de 68%, rgb(12 52 160 / .6) 84%, transparent 100%);
-  filter: blur(3.6cqw);
-  animation: tz-light 17s ease-in-out infinite alternate;
+.tz-blob {
+  position: absolute; left: -33.1cqw; top: -1.5cqw; width: 189.6cqw; height: 155.6cqw;
+  background: center / 100% 100% no-repeat;
+  transform-origin: 46% 34%;
+  pointer-events: none;
+  animation: tz-drift 21s ease-in-out infinite alternate, tz-breathe 15s ease-in-out infinite alternate;
 }
-.tz-core {
-  left: -20%; top: 25%; width: 140%; height: 118%;
-  background: radial-gradient(closest-side, #020611 0%, #030b22 48%, rgb(4 16 52 / .9) 70%, transparent 100%);
-  filter: blur(3.5cqw);
-  animation: tz-core 23s ease-in-out infinite alternate;
-}
-/* dół w czerń, lewy górny róg ciemniejszy - łuk najjaśniejszy z prawej */
-.tz-shade { inset: 0; border-radius: 0; background: linear-gradient(180deg, transparent 52%, #000 96%), radial-gradient(70% 46% at 4% 8%, #000 0%, rgb(0 0 0 / .7) 40%, transparent 100%); animation: tz-shade 14s ease-in-out infinite alternate; }
-@keyframes tz-light { 0% { translate: 4cqw 0; scale: 1 1; rotate: -4deg; } 50% { translate: -3cqw 2cqh; scale: 1.06 .96; rotate: 3deg; } 100% { translate: 2cqw -2cqh; scale: .97 1.05; rotate: 6deg; } }
-@keyframes tz-core { 0% { translate: -2cqw 1cqh; scale: 1; } 50% { translate: 3cqw -1.5cqh; scale: 1.04 .98; } 100% { translate: -1cqw 2cqh; scale: .98 1.03; } }
-@keyframes tz-shade { from { opacity: 1; } to { opacity: .82; } }
+@keyframes tz-drift { 0% { translate: 0 0; rotate: 0deg; } 35% { translate: -7cqw 4cqw; rotate: -6deg; } 70% { translate: 5cqw 7cqw; rotate: 5deg; } 100% { translate: -3cqw -4cqw; rotate: 9deg; } }
+@keyframes tz-breathe { 0% { scale: 1; } 50% { scale: 1.08 .94; } 100% { scale: .95 1.07; } }
 .live .tz-logo { position: absolute; left: 50%; top: 48%; width: 46cqw; height: auto; translate: -50% -50%; }   /* (0,2,0) wygrywa z .media img */
 
 /* ---- loom.studio: papier, figury Bauhausu na środku, pas gradientu na dole, pionowe logo, PL / EN ---- */

diff --git a/live.js b/live.js
@@ -1,5 +1,5 @@
 // Okładki projektów (projects[].live) - mikroanimacje na żywo (4:5):
-//   teraz       - czerń z niebieską łuną, która organicznie płynie (sam CSS), logo na środku.
+//   teraz       - czerń z dużą niebieską plamą z projektu, która organicznie płynie (sam CSS), logo na środku.
 //   loom.studio - papier, trzy figury Bauhausu na środku pływające na sprężynach (fizyka z loom.studio:
 //                 dryf, odbicia, uspokojenie pod kursorem); na dole pas płynnego gradientu z hero
 //                 (WebGL, reaguje na kursor; pod spodem ten sam gradient w CSS); pionowe logo przy lewej
@@ -20,11 +20,12 @@ const esc = s => String(s ?? '').replace(/[&<>"']/g, c => ({ '&': '&amp;', '<': 
 const abs = src => esc(new URL(src, import.meta.url).href);
 
 /* ==========================================================================
-   teraz - łuna z hero teraz.eu: jasny łuk u góry dużej elipsy, w środku granat, dół czarny
+   teraz - czerń z dużą niebieską plamą z projektu (Figma, assets/teraz/cover-blob.webp: cała plama z rozmyciem)
+   i logo na środku. Plama płynie organicznie (dryf, obrót, „oddech”); w PDF i bez ruchu stoi jak w projekcie.
    ========================================================================== */
 function terazMarkup(p) {
   return `
-          <span class="tz-light"></span><span class="tz-core"></span><span class="tz-shade"></span>
+          <span class="tz-blob" style="background-image:url('${abs('assets/teraz/cover-blob.webp')}')"></span>
           <img class="tz-logo" src="${abs(p.logo.src)}" width="${p.logo.w}" height="${p.logo.h}" alt="">`;
 }
 
